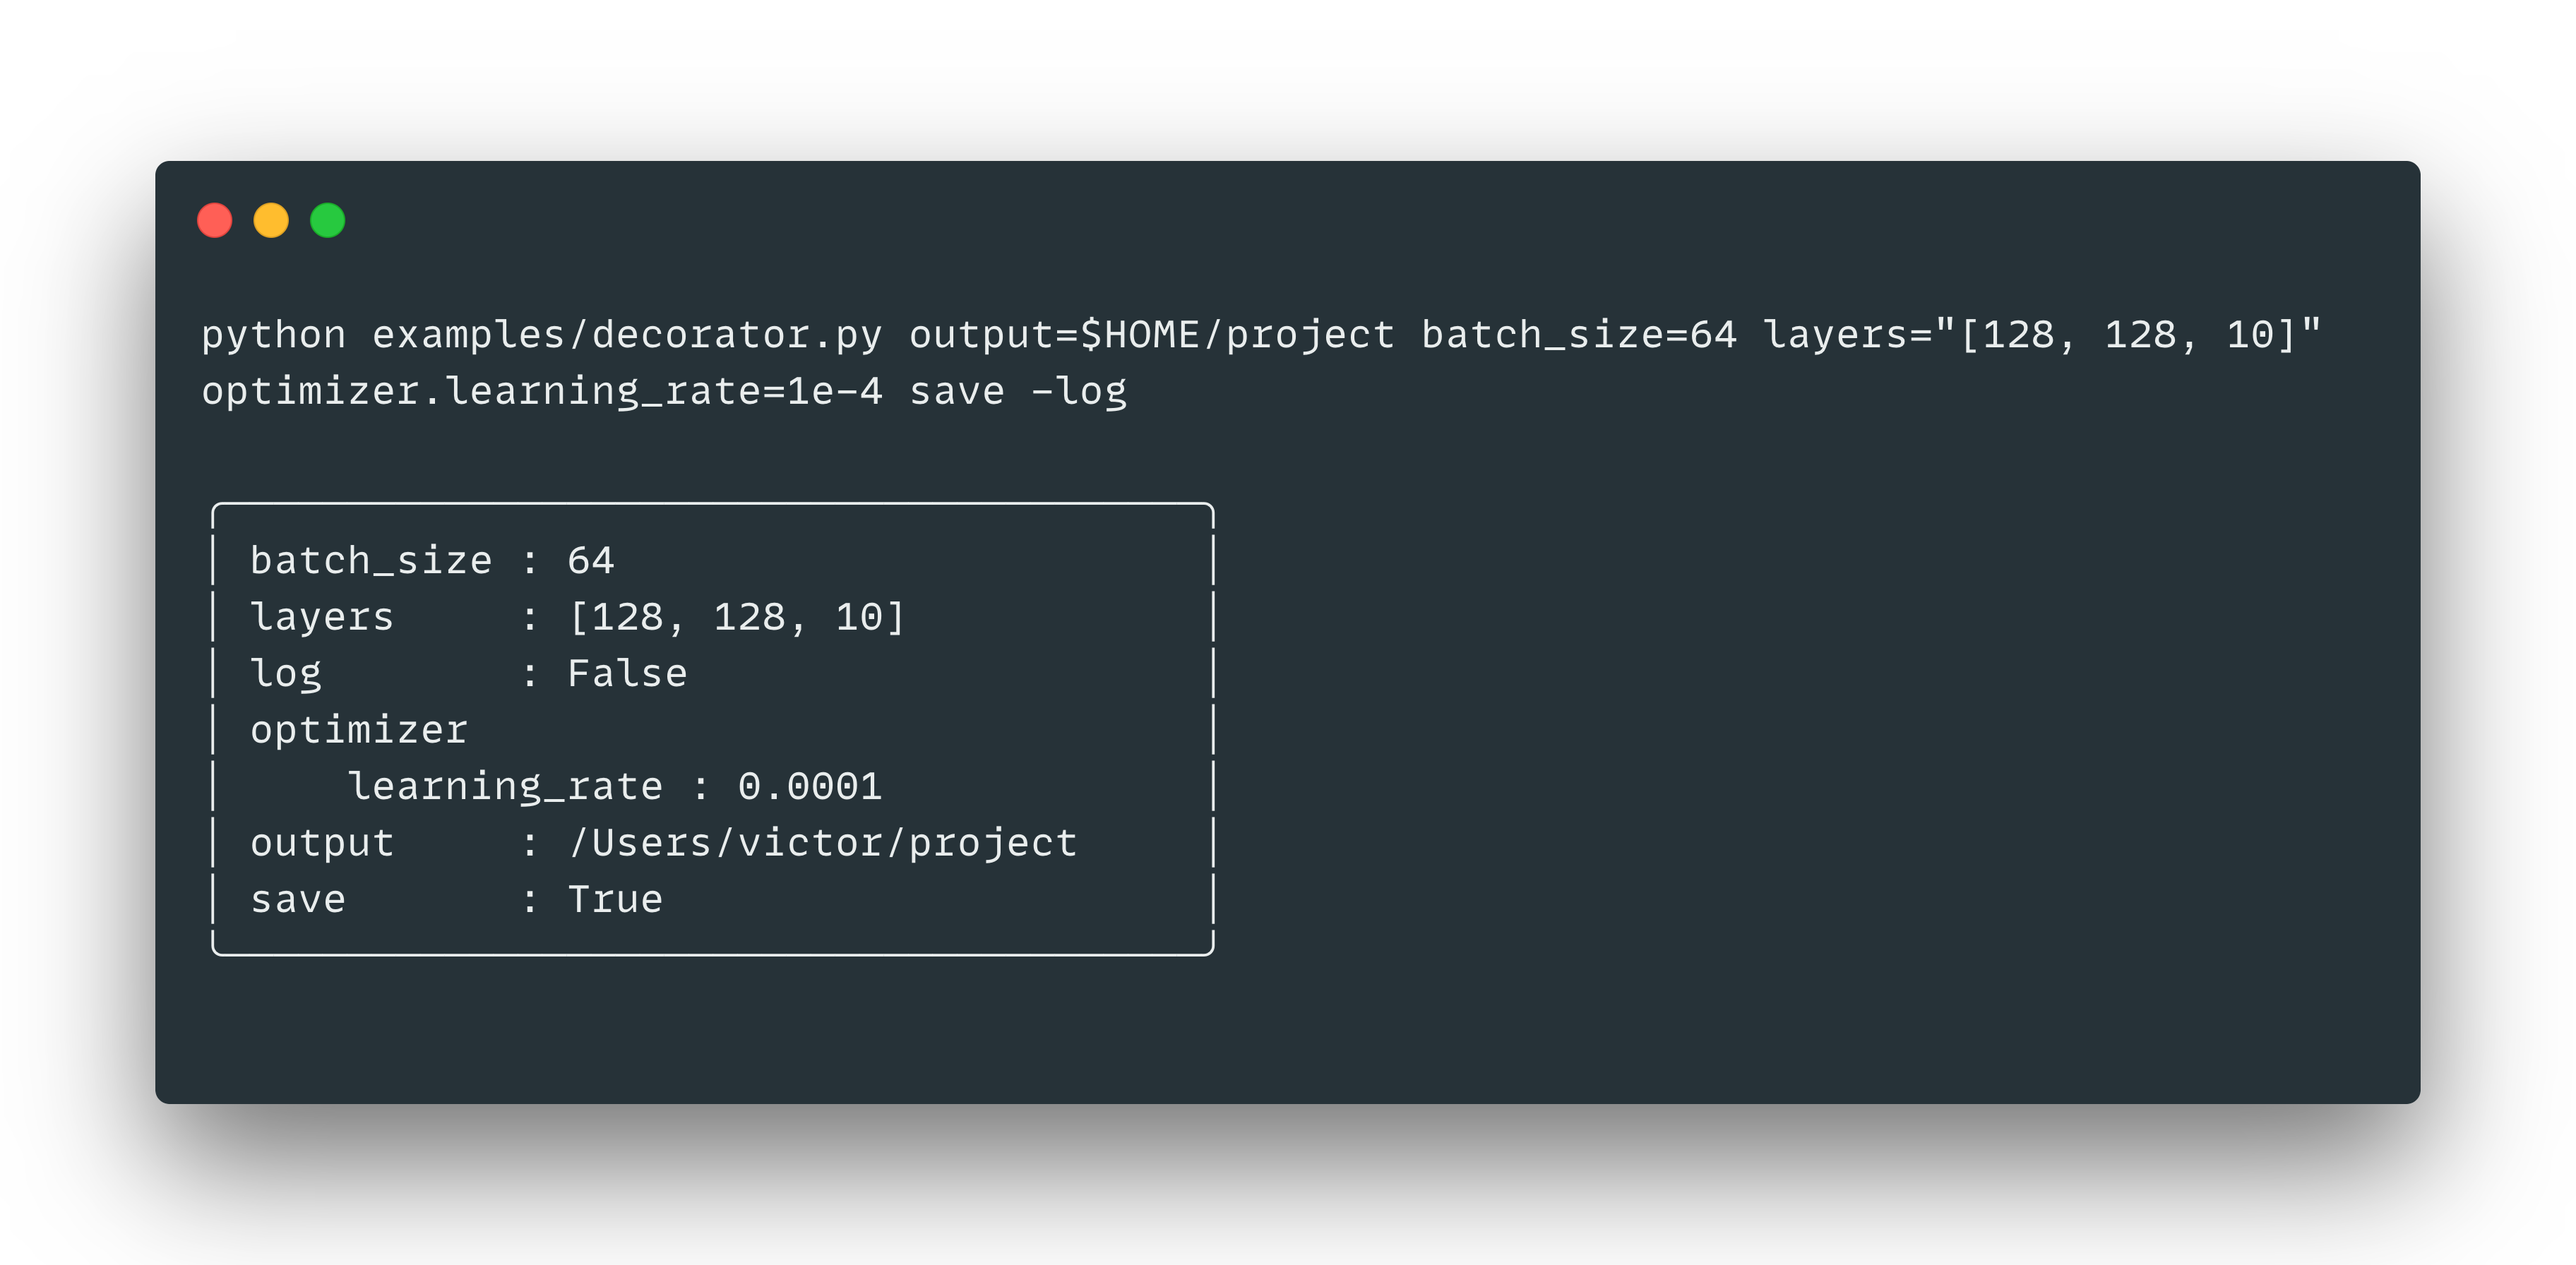
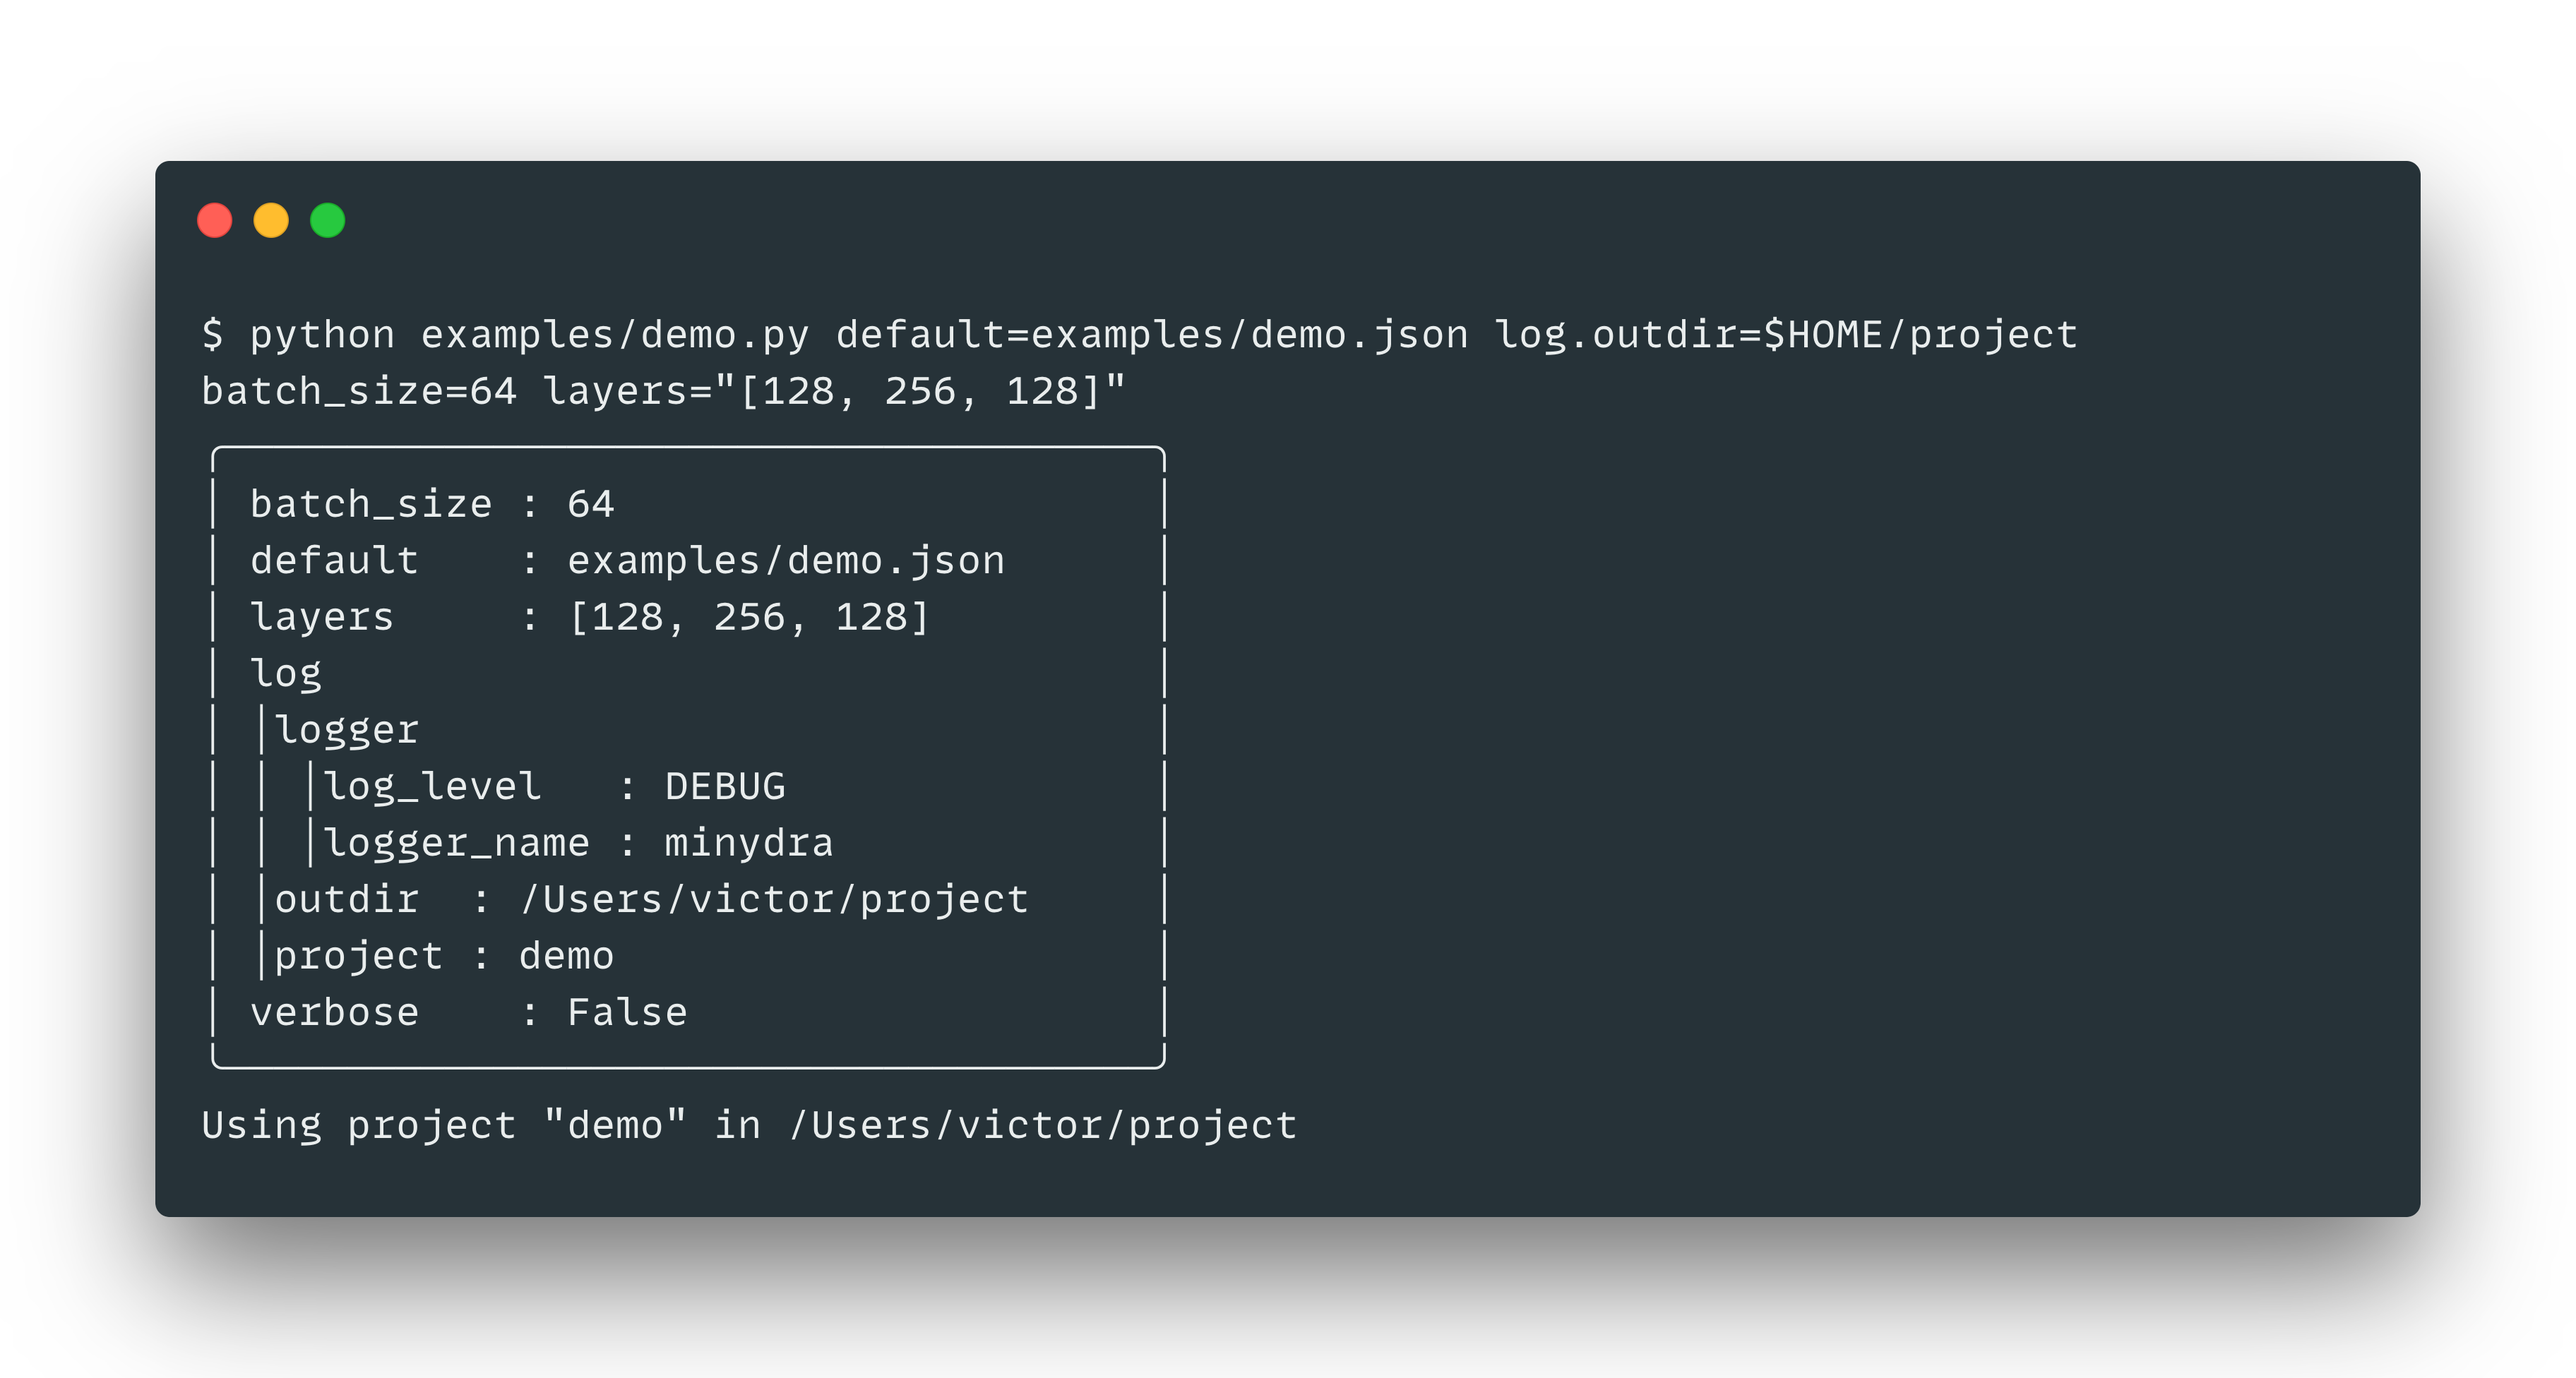
update demo

diff --git a/examples/demo.py b/examples/demo.py
@@ -1,0 +1,15 @@
+from minydra import resolved_args, MinyDict
+
+if __name__ == "__main__":
+    # parse arbitrary args in 1 line
+    args = resolved_args()
+
+    # override default conf
+    if args.default:
+        args = MinyDict.from_json(args.default).update(args)
+
+    # print the args in a nice orderly fashion
+    args.pretty_print()
+
+    # access args with dot/attribute access
+    print(f'Using project "{args.log.project}" in {args.log.outdir}')

diff --git a/examples/resolved_args.py b/examples/resolved_args.py
@@ -1,5 +1,6 @@
 from minydra import resolved_args
 
 if __name__ == "__main__":
+
     args = resolved_args()
     args.pretty_print()

diff --git a/README.md b/README.md
@@ -1,6 +1,6 @@
 # minydra 🦎
 
-Minimal Python command-line parser inspired by Facebook's Hydra.
+Minimal Python command-line parser inspired by Facebook's Hydra + dot-accessible dictionary.
 
 Easily parse arbitrary arguments from the command line without dependencies:
 
